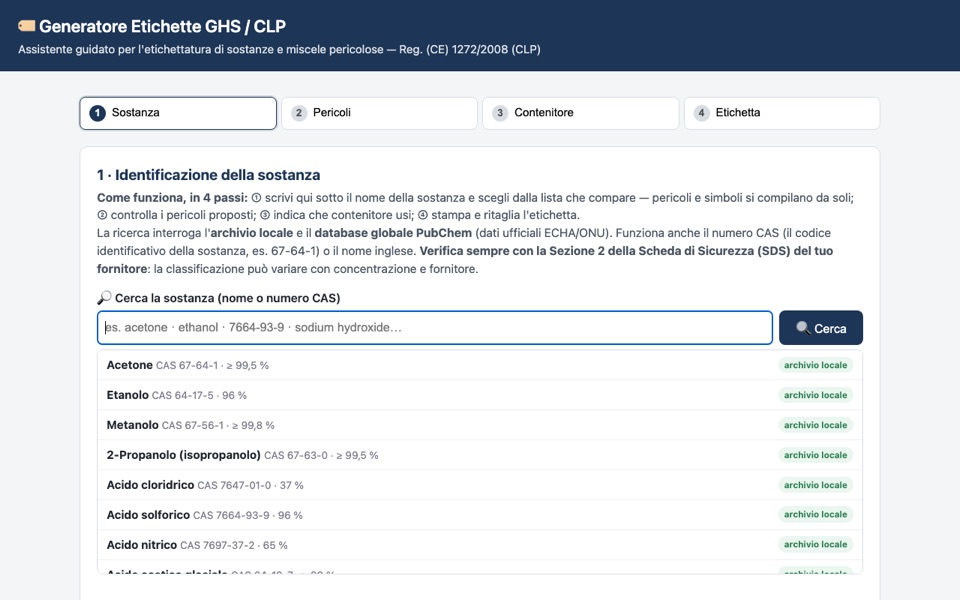
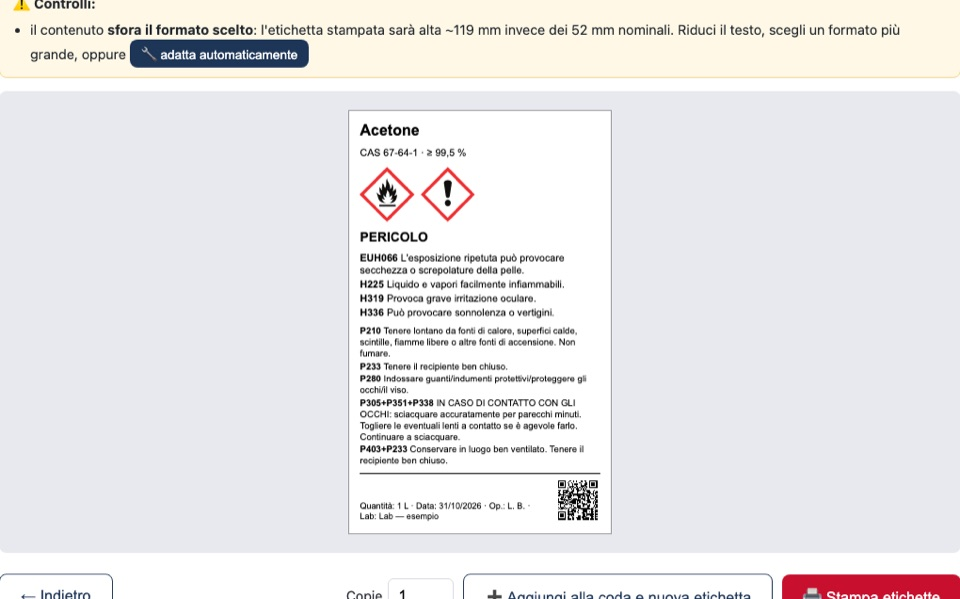
Rifinitura: meno ripetizioni, lingue corrette, screenshot leggibili, paper in evidenza
- Chi sono più breve; la storia IBF → ICCOM solo nel percorso; Cosa faccio
  solo attività attuali; scheda tecnica = sintesi delle competenze
- lingue: italiano madrelingua, inglese uso professionale (via 'B1')
- ritagli mobile reali di Acchiappaspettri, ICP Tool ed Etichette
  (nuovo screenshot con etichetta pronta), voce 'soluzione' nei casi studio
- paper: 5 in evidenza + 'mostra tutti', contributo 📊 dove documentato

diff --git a/index.html b/index.html
@@ -28,7 +28,7 @@
 <link rel="preconnect" href="https://fonts.googleapis.com">
 <link rel="preconnect" href="https://fonts.gstatic.com" crossorigin>
 <link href="https://fonts.googleapis.com/css2?family=Bricolage+Grotesque:opsz,wght@12..96,400;12..96,600;12..96,700;12..96,800&family=Instrument+Serif:ital@0;1&family=JetBrains+Mono:wght@500;600&display=swap" rel="stylesheet">
-<link rel="stylesheet" href="styles.css?v=12">
+<link rel="stylesheet" href="styles.css?v=13">
 <script type="application/ld+json">
 {"@context":"https://schema.org","@type":"Person","name":"Lorenzo Birindelli","url":"https://lorebiri.github.io/","image":"https://lorebiri.github.io/lorenzo.jpg","jobTitle":"Collaboratore Tecnico Enti di Ricerca (CTER)","description":"CTER at CNR-ICCOM, Pisa: lab and technical support, instrumentation, data, scientific graphics and digital tools.","worksFor":{"@type":"ResearchOrganization","name":"CNR — Istituto di Chimica dei Composti OrganoMetallici (ICCOM)","address":{"@type":"PostalAddress","addressLocality":"Pisa","addressCountry":"IT"},"parentOrganization":{"@type":"GovernmentOrganization","name":"Consiglio Nazionale delle Ricerche (CNR)"}},"alumniOf":{"@type":"EducationalOrganization","name":"ITIS \"Leonardo da Vinci\", Pisa"},"knowsLanguage":["it","en"],"identifier":{"@type":"PropertyValue","propertyID":"ORCID","value":"0009-0000-2529-6256"},"sameAs":["https://orcid.org/0009-0000-2529-6256","https://scholar.google.com/citations?user=1BWAMFEAAAAJ","https://github.com/lorebiri"]}
 </script>
@@ -120,17 +120,13 @@
         <p class="pull" data-it>Sono il <mark>jolly tecnico</mark> del gruppo: faccio funzionare strumenti, dati, figure e tool.</p>
         <p class="pull" data-en>I'm the team's <mark>technical wildcard</mark>: I make instruments, data, figures and tools work.</p>
         <div class="prose" data-it>
-          <p>Dal 2019 sono <strong>Collaboratore Tecnico Enti di Ricerca (CTER)</strong> al Consiglio Nazionale delle Ricerche. Il mio lavoro non è fare ricerca, ma rendere possibile quella degli altri: competenze operative, strumentali, organizzative, digitali e creative al servizio dei gruppi con cui lavoro.</p>
-          <p>Ho iniziato all'<strong>Istituto di Biofisica (IBF)</strong> di Pisa, nel gruppo di Gualtieri e Barsanti: colture, strumenti, dati e tanta <em>Euglena</em>, tra fotorecettori e fototassi. Quando il gruppo è andato in pensione, a <strong>gennaio 2025</strong> sono passato all'<strong>Istituto di Chimica dei Composti OrganoMetallici (ICCOM)</strong>, sempre a Pisa. Le euglene sono rimaste nella mia storia (e nello sfondo di questo sito), non nel mio lavoro di oggi.</p>
-          <p>Oggi mi muovo tra supporto tecnico al laboratorio, strumentazione, gestione ed elaborazione dei dati, <strong>figure per le pubblicazioni</strong>, materiale multimediale e supporto a congressi ed eventi. E quando un'attività si ripete troppe volte, la trasformo in un <strong>tool</strong>: col <em>vibe coding</em> costruisco piccole app HTML che semplificano il lavoro di tutti i giorni (le trovi qui sotto, tra i progetti).</p>
-          <p>Quello che amo di questo lavoro? È <strong>versatile e dinamico</strong>: ogni giorno è diverso e non sai mai cosa aspettarti.</p>
+          <p>Sono <strong>Collaboratore Tecnico Enti di Ricerca (CTER)</strong> al CNR dal 2019, oggi all'<strong>ICCOM</strong> di Pisa. Non faccio ricerca: rendo possibile quella degli altri, con competenze di laboratorio, dati, grafica e codice.</p>
+          <p>Quello che amo di questo lavoro? È <strong>versatile e dinamico</strong>: ogni giorno è diverso e non sai mai cosa aspettarti. Come ci sono arrivato lo racconto più sotto, in <a href="#journey">La storia finora</a>.</p>
           <p class="note-ci">Una cosa su di me: sono <strong>sordo e porto un impianto cocleare</strong> 🦻. Non mi ha mai fermato, mi ha solo insegnato ad adattarmi. Per questo, se vuoi contattarmi, l'<strong>email</strong> è sempre la via migliore.</p>
         </div>
         <div class="prose" data-en>
-          <p>Since 2019 I've been a <strong>Research Technician (CTER, Collaboratore Tecnico Enti di Ricerca)</strong> at the Italian National Research Council (CNR). My job isn't doing research: it's making other people's research possible, with operational, instrumental, organisational, digital and creative skills.</p>
-          <p>I started at the <strong>Institute of Biophysics (IBF)</strong> in Pisa, in the Gualtieri &amp; Barsanti group: cultures, instruments, data and a lot of <em>Euglena</em>, photoreceptors and phototaxis. When the group retired, in <strong>January 2025</strong> I moved to the <strong>Institute of Chemistry of OrganoMetallic Compounds (ICCOM)</strong>, still in Pisa. The euglenas stayed in my story (and in this site's background), not in my current job.</p>
-          <p>Today I work across lab and technical support, instrumentation, data management and processing, <strong>figures for publications</strong>, multimedia and support for conferences and events. And when a task repeats too often, I turn it into a <strong>tool</strong>: with <em>vibe coding</em> I build small HTML apps that make everyday work easier (you'll find them below, in the projects).</p>
-          <p>What I love about this job? It's <strong>versatile and dynamic</strong>: every day is different and you never know what to expect.</p>
+          <p>I've been a <strong>Research Technician (CTER)</strong> at CNR since 2019, now at <strong>ICCOM</strong> in Pisa. I don't do research myself: I make other people's research possible, with lab, data, design and coding skills.</p>
+          <p>What I love about this job? It's <strong>versatile and dynamic</strong>: every day is different and you never quite know what to expect. How I got here is further down, in <a href="#journey">The story so far</a>.</p>
           <p class="note-ci">Something about me: I'm <strong>deaf and wear a cochlear implant</strong> 🦻. It has never held me back, it just taught me to adapt. That's why <strong>email</strong> is always the best way to reach me.</p>
         </div>
       </div>
@@ -138,11 +134,13 @@
         <header><span data-it>scheda tecnica</span><span data-en>spec sheet</span><span>LB-001</span></header>
         <dl>
           <dt><span data-it>ruolo</span><span data-en>role</span></dt><dd>CTER <small><span data-it>tecnico multidisciplinare</span><span data-en>multidisciplinary technician</span></small></dd>
-          <dt><span data-it>al CNR dal</span><span data-en>at CNR since</span></dt><dd>2019</dd>
-          <dt><span data-it>oggi</span><span data-en>now</span></dt><dd>ICCOM <small><span data-it>da gen 2025</span><span data-en>since Jan 2025</span></small></dd>
-          <dt><span data-it>prima</span><span data-en>before</span></dt><dd>IBF <small>2019–2024</small></dd>
-          <dt>paper</dt><dd>8 <small>+ 1 preprint</small></dd>
-          <dt><span data-it>lingue</span><span data-en>languages</span></dt><dd>IT · EN <small>B1</small></dd>
+          <dt><span data-it>base</span><span data-en>based at</span></dt><dd>CNR-ICCOM <small>Pisa</small></dd>
+          <dt><span data-it>laboratorio</span><span data-en>lab</span></dt><dd><span data-it>strumenti · sicurezza</span><span data-en>instruments · safety</span></dd>
+          <dt><span data-it>dati</span><span data-en>data</span></dt><dd>OriginLab · ImageJ · Excel</dd>
+          <dt><span data-it>grafica</span><span data-en>graphics</span></dt><dd>Inkscape · Photoshop</dd>
+          <dt>video</dt><dd>Final Cut Pro</dd>
+          <dt><span data-it>codice</span><span data-en>code</span></dt><dd>HTML · CSS · JS</dd>
+          <dt><span data-it>lingue</span><span data-en>languages</span></dt><dd><span data-it>italiano <small>madrelingua</small><br>inglese <small>uso professionale</small></span><span data-en>Italian <small>native</small><br>English <small>professional working</small></span></dd>
           <dt><span data-it>canale migliore</span><span data-en>best channel</span></dt><dd>email ✉</dd>
         </dl>
       </aside>
@@ -156,8 +154,8 @@
     <div class="shead">
       <p class="fig"><b>FIG. 02</b><span data-it>cosa faccio</span><span data-en>what i do</span></p>
       <h2><span data-it>Cinque <span class="serif">canali</span></span><span data-en>Five <span class="serif">channels</span></span></h2>
-      <p class="caption" data-it>Come in una figura multicanale: separati si leggono meglio, sovrapposti raccontano la storia.</p>
-      <p class="caption" data-en>Like a multichannel image: each channel reads best on its own, the merge tells the story.</p>
+      <p class="caption" data-it>Il mio lavoro di oggi all'ICCOM, come una figura multicanale: i canali separati si leggono meglio, sovrapposti raccontano la storia.</p>
+      <p class="caption" data-en>My work at ICCOM today, like a multichannel image: each channel reads best on its own, the merge tells the story.</p>
     </div>
     <ol class="xp">
       <li class="rv">
@@ -174,9 +172,6 @@
             <span class="tag">Safety Tutor</span>
             <span class="tag" data-it>formazione sicurezza CNR (specifica e per preposti)</span><span class="tag" data-en>CNR safety training (specific &amp; supervisors)</span>
             <span class="tag" data-it>supporto a congressi ed eventi</span><span class="tag" data-en>conference &amp; event support</span>
-            <span class="tag past" data-it>colture di microalghe e protozoi</span><span class="tag past" data-en>microalgae &amp; protozoa cultures</span>
-            <span class="tag past" data-it>terreni di coltura</span><span class="tag past" data-en>culture media</span>
-            <span class="tag past" data-it>campionamento acque</span><span class="tag past" data-en>water sampling</span>
           </div>
         </div>
       </li>
@@ -253,7 +248,6 @@
         </div>
       </li>
     </ol>
-    <p class="xlegend"><span class="tag past" aria-hidden="true">IBF</span> <span data-it>= competenza maturata all'Istituto di Biofisica (2019–2024), non parte del lavoro di oggi</span><span data-en>= skill built at the Institute of Biophysics (2019–2024), not part of my current job</span></p>
   </div>
 </section>
 
@@ -333,7 +327,7 @@
       <article class="work wide rv" data-cat="tools">
         <a class="win" href="https://lorebiri.github.io/acchiappaspettri/" target="_blank" rel="noopener" tabindex="-1">
           <span class="bar"><i></i><i></i><i></i><span>lorebiri.github.io/acchiappaspettri</span></span>
-          <img src="img/acchiappaspettri.jpg" alt="Screenshot di Acchiappaspettri: uno spettro FTIR di esempio con i picchi trovati e nominati in automatico" data-alt-en="Acchiappaspettri screenshot: an example FTIR spectrum with peaks found and labelled automatically" width="960" height="600" loading="lazy">
+          <picture><source media="(max-width:860px)" srcset="img/acchiappaspettri-m.jpg" width="490" height="320"><img src="img/acchiappaspettri.jpg" alt="Screenshot di Acchiappaspettri: uno spettro FTIR di esempio con i picchi trovati e nominati in automatico" data-alt-en="Acchiappaspettri screenshot: an example FTIR spectrum with peaks found and labelled automatically" width="960" height="600" loading="lazy"></picture>
         </a>
         <div class="wbody">
           <p class="wcat"><b>Digital Tool</b><span>made @ ICCOM</span></p>
@@ -344,7 +338,7 @@
           <dl class="brief">
             <dt><span data-it>problema</span><span data-en>problem</span></dt>
             <dd><span data-it>Ogni strumento esporta i dati nel suo formato, e rifare i grafici a mano, uno per uno, porta via tempo.</span><span data-en>Every instrument exports data in its own format, and re-plotting each one by hand eats up time.</span></dd>
-            <dt><span data-it>cosa fa</span><span data-en>what it does</span></dt>
+            <dt><span data-it>soluzione</span><span data-en>solution</span></dt>
             <dd><span data-it>Carichi un file o un'intera cartella (FTIR, Raman, UV-Vis, fluorescenza, HPLC e altri): riconosce lo strumento, trova i picchi e ne suggerisce i nomi, che inserisce solo se li approvi. Poi puoi confrontare, sovrapporre e ritoccare.</span><span data-en>You drop in a file or a whole folder (FTIR, Raman, UV-Vis, fluorescence, HPLC and more): it detects the instrument, finds the peaks and suggests their names, adding them only if you approve. Then you can compare, overlay and fine-tune.</span></dd>
             <dt><span data-it>risultato</span><span data-en>result</span></dt>
             <dd><span data-it>In pochi secondi un PDF da sfogliare, immagini PNG a 600 dpi e SVG pronte per tesi e articoli, l'elenco dei picchi e un Excel per Origin. Senza installare nulla: i dati non lasciano il computer.</span><span data-en>In seconds: a browsable PDF, 600 dpi PNG and SVG images ready for theses and papers, a peak list and an Excel file for Origin. Nothing to install: data never leaves your computer.</span></dd>
@@ -365,7 +359,7 @@
       <article class="work slim rv" data-cat="tools">
         <a class="win" href="https://lorebiri.github.io/etichette/" target="_blank" rel="noopener" tabindex="-1">
           <span class="bar"><i></i><i></i><i></i><span>lorebiri.github.io/etichette</span></span>
-          <img src="img/etichette.jpg" alt="Screenshot del generatore di etichette GHS/CLP: ricerca della sostanza e archivio locale" data-alt-en="GHS/CLP label maker screenshot: substance search and local archive" width="960" height="600" loading="lazy">
+          <picture><source media="(max-width:860px)" srcset="img/etichette-m.jpg" width="340" height="480"><img src="img/etichette.jpg?v=2" alt="Screenshot del generatore di etichette GHS/CLP: etichetta pronta per l'acetone, con pittogrammi, frasi H/P e QR code" data-alt-en="GHS/CLP label maker screenshot: a finished acetone label with pictograms, H/P statements and QR code" width="960" height="600" loading="lazy"></picture>
         </a>
         <div class="wbody">
           <p class="wcat"><b>Digital Tool</b><span>lab safety</span></p>
@@ -376,7 +370,7 @@
           <dl class="brief">
             <dt><span data-it>problema</span><span data-en>problem</span></dt>
             <dd><span data-it>Etichettare un reagente o una soluzione preparata in laboratorio vuol dire ritrovare pittogrammi, avvertenza e frasi H/P giusti.</span><span data-en>Labelling a reagent or a solution prepared in the lab means tracking down the right pictograms, signal word and H/P statements.</span></dd>
-            <dt><span data-it>cosa fa</span><span data-en>what it does</span></dt>
+            <dt><span data-it>soluzione</span><span data-en>solution</span></dt>
             <dd><span data-it>Cerchi la sostanza per nome o numero CAS e la classificazione si compila da sola, da un archivio locale o da PubChem. Gestisce anche le miscele, componente per componente, e ricorda le etichette recenti nel browser.</span><span data-en>Search a substance by name or CAS number and the classification fills itself in, from a local archive or PubChem. It also handles mixtures, component by component, and remembers recent labels in the browser.</span></dd>
             <dt><span data-it>risultato</span><span data-en>result</span></dt>
             <dd><span data-it>Un'etichetta CLP pronta da stampare e ritagliare in 4 passi, con il promemoria di verificare sempre la scheda di sicurezza del fornitore.</span><span data-en>A CLP label ready to print and cut in 4 steps, with a reminder to always check the supplier's safety data sheet.</span></dd>
@@ -397,7 +391,7 @@
       <article class="work slim rv" data-cat="tools">
         <a class="win" href="https://lorebiri.github.io/icp-tool/" target="_blank" rel="noopener" tabindex="-1">
           <span class="bar"><i></i><i></i><i></i><span>lorebiri.github.io/icp-tool</span></span>
-          <img src="img/icp-tool.jpg" alt="Screenshot di ICP Tool: tabella di preparazione degli standard per Fe, Cu e Zn" data-alt-en="ICP Tool screenshot: standards preparation table for Fe, Cu and Zn" width="960" height="600" loading="lazy">
+          <picture><source media="(max-width:860px)" srcset="img/icp-tool-m.jpg" width="570" height="570"><img src="img/icp-tool.jpg" alt="Screenshot di ICP Tool: tabella di preparazione degli standard per Fe, Cu e Zn" data-alt-en="ICP Tool screenshot: standards preparation table for Fe, Cu and Zn" width="960" height="600" loading="lazy"></picture>
         </a>
         <div class="wbody">
           <p class="wcat"><b>Digital Tool</b><span>ICP-OES</span></p>
@@ -408,7 +402,7 @@
           <dl class="brief">
             <dt><span data-it>problema</span><span data-en>problem</span></dt>
             <dd><span data-it>Un'analisi ICP-OES passa per tanti calcoli: preparazione degli standard, pesate e volumi dei campioni, conversione delle letture.</span><span data-en>An ICP-OES analysis involves lots of calculations: preparing standards, sample weights and volumes, converting the readings.</span></dd>
-            <dt><span data-it>cosa fa</span><span data-en>what it does</span></dt>
+            <dt><span data-it>soluzione</span><span data-en>solution</span></dt>
             <dd><span data-it>Guida la sessione in 5 passi: parametri dello strumento, standard di calibrazione con tabella di preparazione e archivio, campioni con calcolo del volume finale, letture e risultati in % in peso. Gli ID campione includono la sigla dell'operatore, per evitare duplicati tra PC diversi.</span><span data-en>It walks you through the session in 5 steps: instrument parameters, calibration standards with a preparation table and archive, samples with final-volume calculation, readings and results as weight %. Sample IDs include the operator's initials, to avoid duplicates across PCs.</span></dd>
             <dt><span data-it>risultato</span><span data-en>result</span></dt>
             <dd><span data-it>PDF pronti per preparare standard e campioni e per i risultati; sessioni esportabili e reimportabili in JSON. In italiano e inglese.</span><span data-en>Ready-made PDFs for preparing standards and samples and for the results; sessions can be exported and re-imported as JSON. In Italian and English.</span></dd>
@@ -440,7 +434,7 @@
           <dl class="brief">
             <dt><span data-it>problema</span><span data-en>problem</span></dt>
             <dd><span data-it>Con l'orario CNR da 7h 12m e le pause di mezzo, sapere a che ora si esce è sempre un conto a mente.</span><span data-en>With the 7h 12m CNR workday and breaks in between, working out when you can leave is always mental maths.</span></dd>
-            <dt><span data-it>cosa fa</span><span data-en>what it does</span></dt>
+            <dt><span data-it>soluzione</span><span data-en>solution</span></dt>
             <dd><span data-it>Inserisci l'ingresso e le pause: calcola la fine della giornata e l'ora del buono pasto (aggiungendo da solo la mezz'ora di pausa pranzo se manca), con countdown, percentuale completata e cosa succede se esci adesso.</span><span data-en>Enter your start time and breaks: it works out when the day ends and when the meal voucher kicks in (adding the 30-minute lunch break itself if it's missing), with countdowns, progress and what happens if you leave now.</span></dd>
             <dt><span data-it>risultato</span><span data-en>result</span></dt>
             <dd><span data-it>Zero scienza, massima utilità quotidiana.</span><span data-en>Zero science, maximum everyday usefulness.</span></dd>
@@ -604,24 +598,9 @@
           <h3 data-it>CTER @ <span class="serif">CNR-ICCOM</span></h3>
           <h3 data-en>CTER @ <span class="serif">CNR-ICCOM</span></h3>
           <p class="where"><span data-it>Istituto di Chimica dei Composti OrganoMetallici · Pisa</span><span data-en>Institute of Chemistry of OrganoMetallic Compounds · Pisa</span></p>
-          <p data-it>Il capitolo in corso. Niente più organismi: il lavoro si è spostato su strumenti, dati e comunicazione, e la parte digitale è diventata un pezzo vero del mestiere.</p>
-          <p data-en>The current chapter. No more organisms: the work has shifted to instruments, data and communication, and the digital side has become a real part of the job.</p>
-          <ul data-it>
-            <li>Supporto tecnico alle attività di laboratorio e di ricerca</li>
-            <li>Strumentazione scientifica, tecniche analitiche e strumentali</li>
-            <li>Gestione, elaborazione e visualizzazione dei dati</li>
-            <li>Figure per le pubblicazioni e grafica per la comunicazione scientifica</li>
-            <li>Tool digitali e app HTML per semplificare le attività operative (Acchiappaspettri, ICP Tool…)</li>
-            <li>Materiale multimediale e supporto tecnologico e organizzativo a congressi ed eventi</li>
-          </ul>
-          <ul data-en>
-            <li>Technical support for lab and research activities</li>
-            <li>Scientific instrumentation, analytical and instrumental techniques</li>
-            <li>Data management, processing and visualization</li>
-            <li>Figures for publications and graphics for science communication</li>
-            <li>Digital tools and HTML apps that simplify day-to-day operations (Acchiappaspettri, ICP Tool…)</li>
-            <li>Multimedia content and tech &amp; organisational support for conferences and events</li>
-          </ul>
+          <p data-it>Il capitolo in corso. Niente più organismi: il lavoro si è spostato su strumenti, dati e comunicazione, e la parte digitale è diventata un pezzo vero del mestiere. Qui sono nati Acchiappaspettri e ICP Tool, e nel 2026 è arrivato il convegno DSCTM.</p>
+          <p data-en>The current chapter. No more organisms: the work has shifted to instruments, data and communication, and the digital side has become a real part of the job. This is where Acchiappaspettri and ICP Tool were born, and in 2026 came the DSCTM conference.</p>
+          <a class="more" href="#expertise"><span data-it>→ cosa faccio oggi, nel dettaglio</span><span data-en>→ what I do today, in detail</span></a>
         </div>
       </article>
 
@@ -687,8 +666,8 @@
     <div class="shead">
       <p class="fig"><b>FIG. 05</b><span data-it>pubblicazioni</span><span data-en>publications</span></p>
       <h2><span data-it>Scienza, <span class="serif">documentata</span></span><span data-en>Science, <span class="serif">documented</span></span></h2>
-      <p class="caption" data-it>Un pezzo della mia storia è passato anche dalla pubblicazione scientifica: questi sono i lavori a cui ho contribuito come tecnico e coautore, soprattutto negli anni all'IBF. Il mio nome è quello <b>evidenziato</b>.</p>
-      <p class="caption" data-en>Part of my story has also played out in scientific publishing: these are the papers I contributed to as a technician and co-author, mostly during my years at IBF. My name is the <b>highlighted</b> one.</p>
+      <p class="caption" data-it>Lavori a cui ho contribuito come tecnico e coautore, soprattutto negli anni all'IBF. Dove c'è 📊 grafici e montaggio delle figure sono miei; la ricerca è dei gruppi. Il mio nome è quello <b>evidenziato</b>.</p>
+      <p class="caption" data-en>Papers I contributed to as a technician and co-author, mostly during my years at IBF. Where you see 📊, the plots and figure assembly are mine; the research belongs to the groups. My name is the <b>highlighted</b> one.</p>
     </div>
 
     <div class="ptools" role="group" aria-label="Filtra per anno / Filter by year">
@@ -702,7 +681,7 @@
       <span class="count" id="pcount" aria-live="polite"></span>
     </div>
 
-    <ol class="arch">
+    <ol class="arch" id="parch">
       <li class="paper pre rv" data-y="pre">
         <span class="no">P.09</span><span class="y">2026</span>
         <div>
@@ -712,7 +691,7 @@
         </div>
         <span class="ar" aria-hidden="true">↗</span>
       </li>
-      <li class="paper rv" data-y="2026">
+      <li class="paper key rv" data-y="2026">
         <span class="no">P.08</span><span class="y">2026</span>
         <div>
           <h3><a href="https://doi.org/10.1021/acs.analchem.6c04960" target="_blank" rel="noopener">Task-Dependent Synergy between FTIR and Raman Spectroscopy for Sperm Quality Prediction</a></h3>
@@ -721,25 +700,27 @@
         </div>
         <span class="ar" aria-hidden="true">↗</span>
       </li>
-      <li class="paper rv" data-y="2026">
+      <li class="paper key rv" data-y="2026">
         <span class="no">P.07</span><span class="y">2026</span>
         <div>
           <h3><a href="https://doi.org/10.3390/app16126078" target="_blank" rel="noopener">Microspectrophotometry and Raman Investigations of the Effects of Hexavalent Chromium on the Photosynthetic and Photoreceptive Apparatus of <i>Euglena gracilis</i></a></h3>
           <p class="au">Lorenzetti G., Barsanti L., <b>Birindelli L.</b>, Campanella B., Gualtieri P., Legnaioli S.</p>
           <p class="src"><em>Applied Sciences</em> <span>16(12), 6078</span><span class="doi">doi:10.3390/app16126078</span></p>
+          <p class="ptag fig"><span data-it>📊 grafici e montaggio delle figure: miei</span><span data-en>📊 plots and figure assembly: mine</span> · <a href="#projects"><span data-it>vedi la galleria</span><span data-en>see the gallery</span></a></p>
         </div>
         <span class="ar" aria-hidden="true">↗</span>
       </li>
-      <li class="paper rv" data-y="2025">
+      <li class="paper key rv" data-y="2025">
         <span class="no">P.06</span><span class="y">2025</span>
         <div>
           <h3><a href="https://doi.org/10.3390/app15052708" target="_blank" rel="noopener">Bioconvection in Microalgae: Review of Mathematical Models</a></h3>
           <p class="au">Barsanti L., <b>Birindelli L.</b>, Di Garbo A., Gualtieri P.</p>
           <p class="src"><em>Applied Sciences</em> <span>15(5), 2708</span><span class="doi">doi:10.3390/app15052708</span></p>
+          <p class="ptag fig"><span data-it>📊 grafici e montaggio delle figure: miei</span><span data-en>📊 plots and figure assembly: mine</span> · <a href="#projects"><span data-it>vedi la galleria</span><span data-en>see the gallery</span></a></p>
         </div>
         <span class="ar" aria-hidden="true">↗</span>
       </li>
-      <li class="paper rv" data-y="2025" id="p-nomen">
+      <li class="paper key rv" data-y="2025" id="p-nomen">
         <span class="no">P.05</span><span class="y">2025</span>
         <div>
           <h3><a href="https://doi.org/10.1111/php.13999" target="_blank" rel="noopener">Nomen omen: <i>Euglena gracilis</i> possesses a rhodopsin‐based photoreceptor</a></h3>
@@ -749,12 +730,13 @@
         </div>
         <span class="ar" aria-hidden="true">↗</span>
       </li>
-      <li class="paper rv" data-y="2023">
+      <li class="paper key rv" data-y="2023">
         <span class="no">P.04</span><span class="y">2023</span>
         <div>
           <h3><a href="https://doi.org/10.3390/ijms24129973" target="_blank" rel="noopener">Advanced Microscopy Techniques for Molecular Biophysics</a></h3>
           <p class="au">Barsanti L., <b>Birindelli L.</b>, Sbrana F., Lombardi G., Gualtieri P.</p>
           <p class="src"><em>International Journal of Molecular Sciences</em> <span>24(12), 9973</span><span class="doi">doi:10.3390/ijms24129973</span></p>
+          <p class="ptag fig"><span data-it>📊 grafici e montaggio delle figure: miei</span><span data-en>📊 plots and figure assembly: mine</span> · <a href="#projects"><span data-it>vedi la galleria</span><span data-en>see the gallery</span></a></p>
         </div>
         <span class="ar" aria-hidden="true">↗</span>
       </li>
@@ -786,6 +768,7 @@
         <span class="ar" aria-hidden="true">↗</span>
       </li>
     </ol>
+    <button class="pmore" id="pmore" type="button" aria-controls="parch" hidden></button>
 
     <div class="plinks">
       <a class="btn" href="https://scholar.google.com/citations?user=1BWAMFEAAAAJ" target="_blank" rel="noopener"><span data-it>Profilo completo su Google Scholar</span><span data-en>Full profile on Google Scholar</span> ↗</a>
@@ -833,6 +816,6 @@
 </footer>
 
 <div class="toast" role="status" aria-live="polite"></div>
-<script src="main.js?v=11" defer></script>
+<script src="main.js?v=13" defer></script>
 </body>
 </html>

diff --git a/main.js b/main.js
@@ -113,25 +113,39 @@
   });
 
   /* ---------- filtri paper ---------- */
-  var papers=$$('.paper'), pcount=$('#pcount');
+  // con "tutti" si vedono i lavori in evidenza (.key); il bottone mostra il resto
+  var papers=$$('.paper'), pcount=$('#pcount'), pmore=$('#pmore'), pf='all', expanded=false;
+  function showPapers(){
+    papers.forEach(function(p){
+      p.classList.toggle('hide', pf!=='all' ? p.dataset.y!==pf : (!expanded && !p.classList.contains('key')));
+    });
+    if(pmore){
+      pmore.hidden = pf!=='all';
+      pmore.setAttribute('aria-expanded',expanded);
+      pmore.textContent = expanded ? t('Mostra solo quelli in evidenza ↑','Show highlights only ↑') : t('Mostra tutti i '+papers.length+' lavori ↓','Show all '+papers.length+' papers ↓');
+    }
+    countPapers();
+  }
   function countPapers(){
     if(!pcount) return;
     var vis=papers.filter(function(p){return !p.classList.contains('hide')}).length;
     pcount.textContent=t(vis+' di '+papers.length+' in archivio',vis+' of '+papers.length+' in the archive');
+    if(pmore && pf==='all') pmore.textContent = expanded ? t('Mostra solo quelli in evidenza ↑','Show highlights only ↑') : t('Mostra tutti i '+papers.length+' lavori ↓','Show all '+papers.length+' papers ↓');
   }
   $$('.ptools .chip').forEach(function(c){
     c.addEventListener('click',function(){
-      var f=c.dataset.f;
+      pf=c.dataset.f;
       $$('.ptools .chip').forEach(function(x){x.setAttribute('aria-pressed',x===c)});
-      papers.forEach(function(p){p.classList.toggle('hide',f!=='all'&&p.dataset.y!==f)});
-      countPapers();
+      showPapers();
     });
   });
-  // un link a un paper nascosto dal filtro anno riporta prima il filtro su "tutti"
+  if(pmore) pmore.addEventListener('click',function(){expanded=!expanded;showPapers()});
+  showPapers();
+  // un link a un paper nascosto (filtro anno o lista ridotta) prima lo rende visibile
   document.addEventListener('click',function(e){
     var a=e.target.closest&&e.target.closest('a[href^="#"]'); if(!a) return;
     var el=document.getElementById(a.getAttribute('href').slice(1));
-    if(el&&el.classList.contains('paper')&&el.classList.contains('hide')) $('.ptools .chip[data-f="all"]').click();
+    if(el&&el.classList.contains('paper')&&el.classList.contains('hide')){expanded=true;$('.ptools .chip[data-f="all"]').click()}
   });
 
   /* ---------- toast + copia email ---------- */

diff --git a/styles.css b/styles.css
@@ -326,11 +326,6 @@ html:not(.js) .rv{opacity:1;transform:none}
 .legend i{width:8px;height:8px;border-radius:50%;background:var(--eye);animation:blink 1.6s steps(2) infinite}
 
 /* competenze del periodo IBF */
-.tag.past{border-style:dashed;opacity:.8;position:relative;padding-right:34px}
-.tag.past::after{content:"IBF";position:absolute;right:5px;top:50%;transform:translateY(-50%);font-size:9px;letter-spacing:.06em;background:var(--ink);color:var(--paper);padding:2px 3px;border-radius:3px}
-.xlegend{margin-top:18px;font:500 12px/1.6 var(--mono);color:var(--mute);display:flex;align-items:center;gap:8px;flex-wrap:wrap}
-.xlegend .tag.past{padding:4px 30px 4px 8px;font-size:0}
-.xp>li:hover .tag.past::after{background:var(--on);color:var(--chl)}
 
 /* IBF → ICCOM */
 .switch{display:grid;grid-template-columns:minmax(0,1fr) auto minmax(0,1.25fr);align-items:stretch;margin-bottom:clamp(40px,6vw,72px);border:1.5px solid var(--line)}
@@ -506,3 +501,14 @@ html:not(.js) .rv{opacity:1;transform:none}
   .xp>li{grid-template-columns:minmax(0,1fr)}
   .tag{white-space:normal;line-height:1.3}
 }
+
+/* mobile: ritaglio leggibile degli screenshot (vedi <picture> nei progetti) */
+@media (max-width:860px){
+  .win img{aspect-ratio:auto;object-fit:contain;max-height:none}
+}
+
+/* paper: contributo e lista ridotta */
+.ptag.fig{color:var(--ink);font-weight:600}
+.ptag.fig a{position:relative;z-index:1;color:var(--eye-t)}
+.pmore{margin-top:18px;font:600 13px/1 var(--mono);cursor:pointer;color:var(--ink);background:transparent;border:1.5px dashed var(--line);padding:12px 16px}
+.pmore:hover{background:var(--card)}
